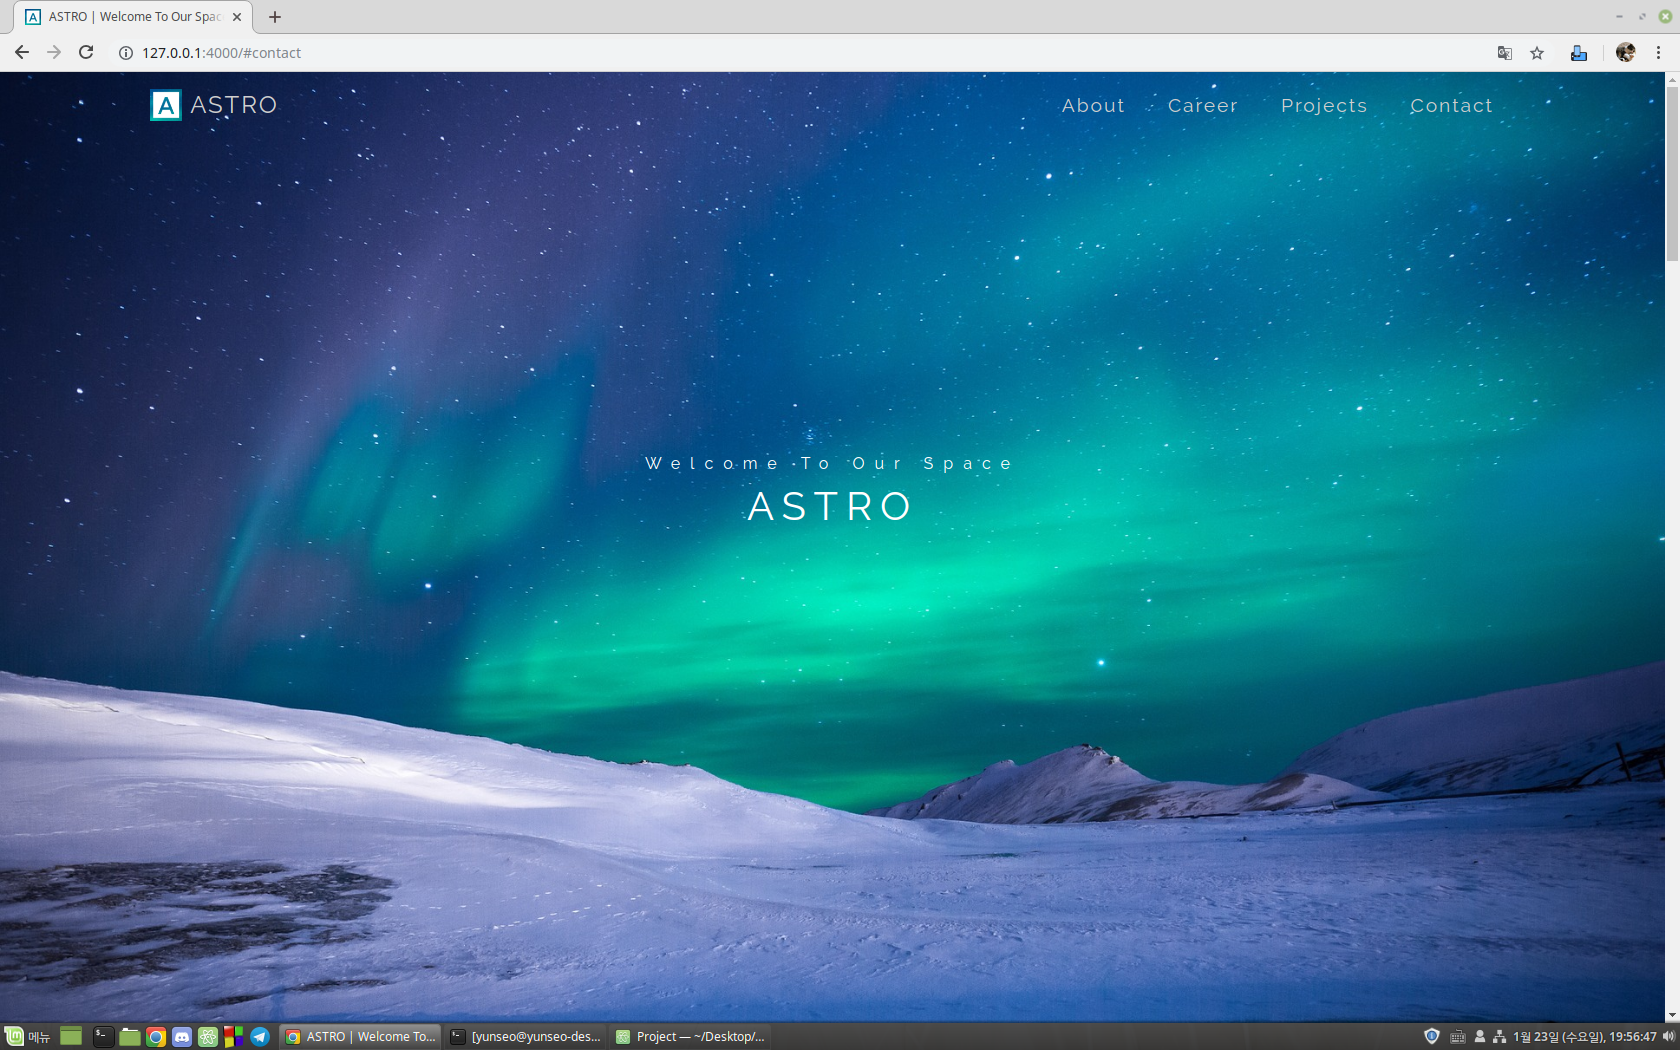
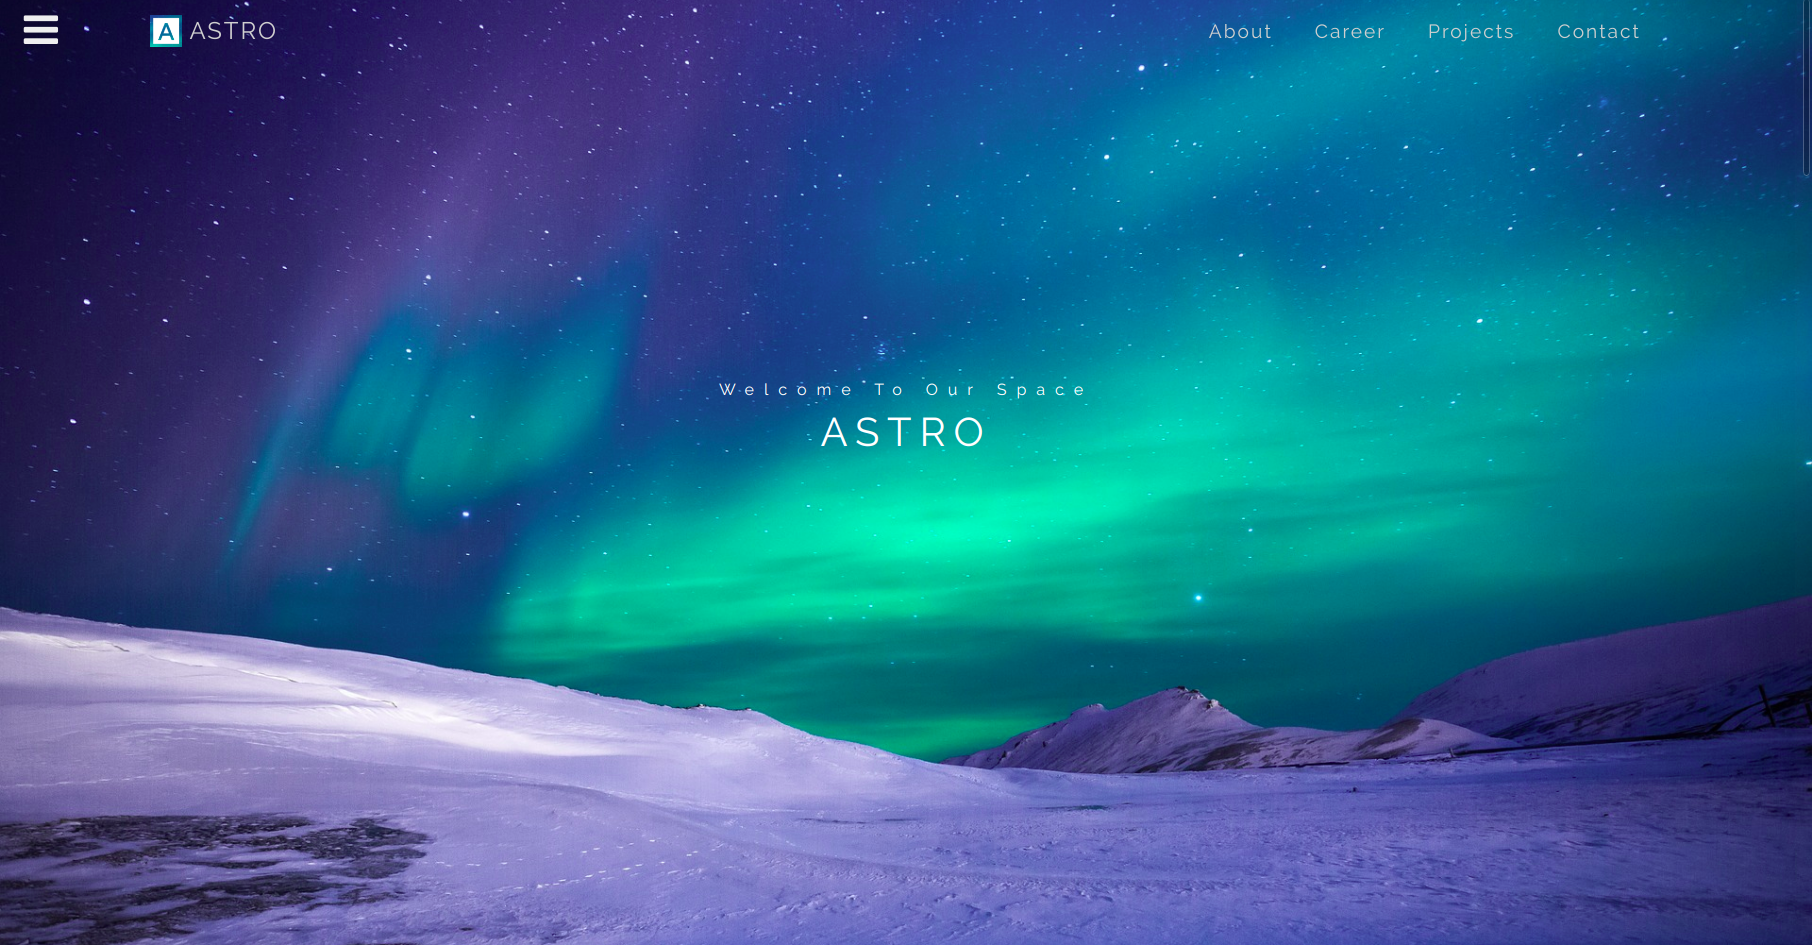
Add : 스크린샷 추가

diff --git a/README.md b/README.md
@@ -2,4 +2,5 @@
 <img src="/img/ASTRO.jpg" width="100%" alt="ASTRO">
 
 ## Screenshot
-<img src="/img/ASTRO_screenshot_1.png" width="100%" alt="astro jekyll theme screenshot 1">
+<img src="img/ASTRO_screenshot_1.png" width="100%" alt="astro jekyll theme screenshot 1">
+<img src="img/ASTRO_screenshot_2.png" width="100%" alt="astro jekyll theme screenshot 2">
